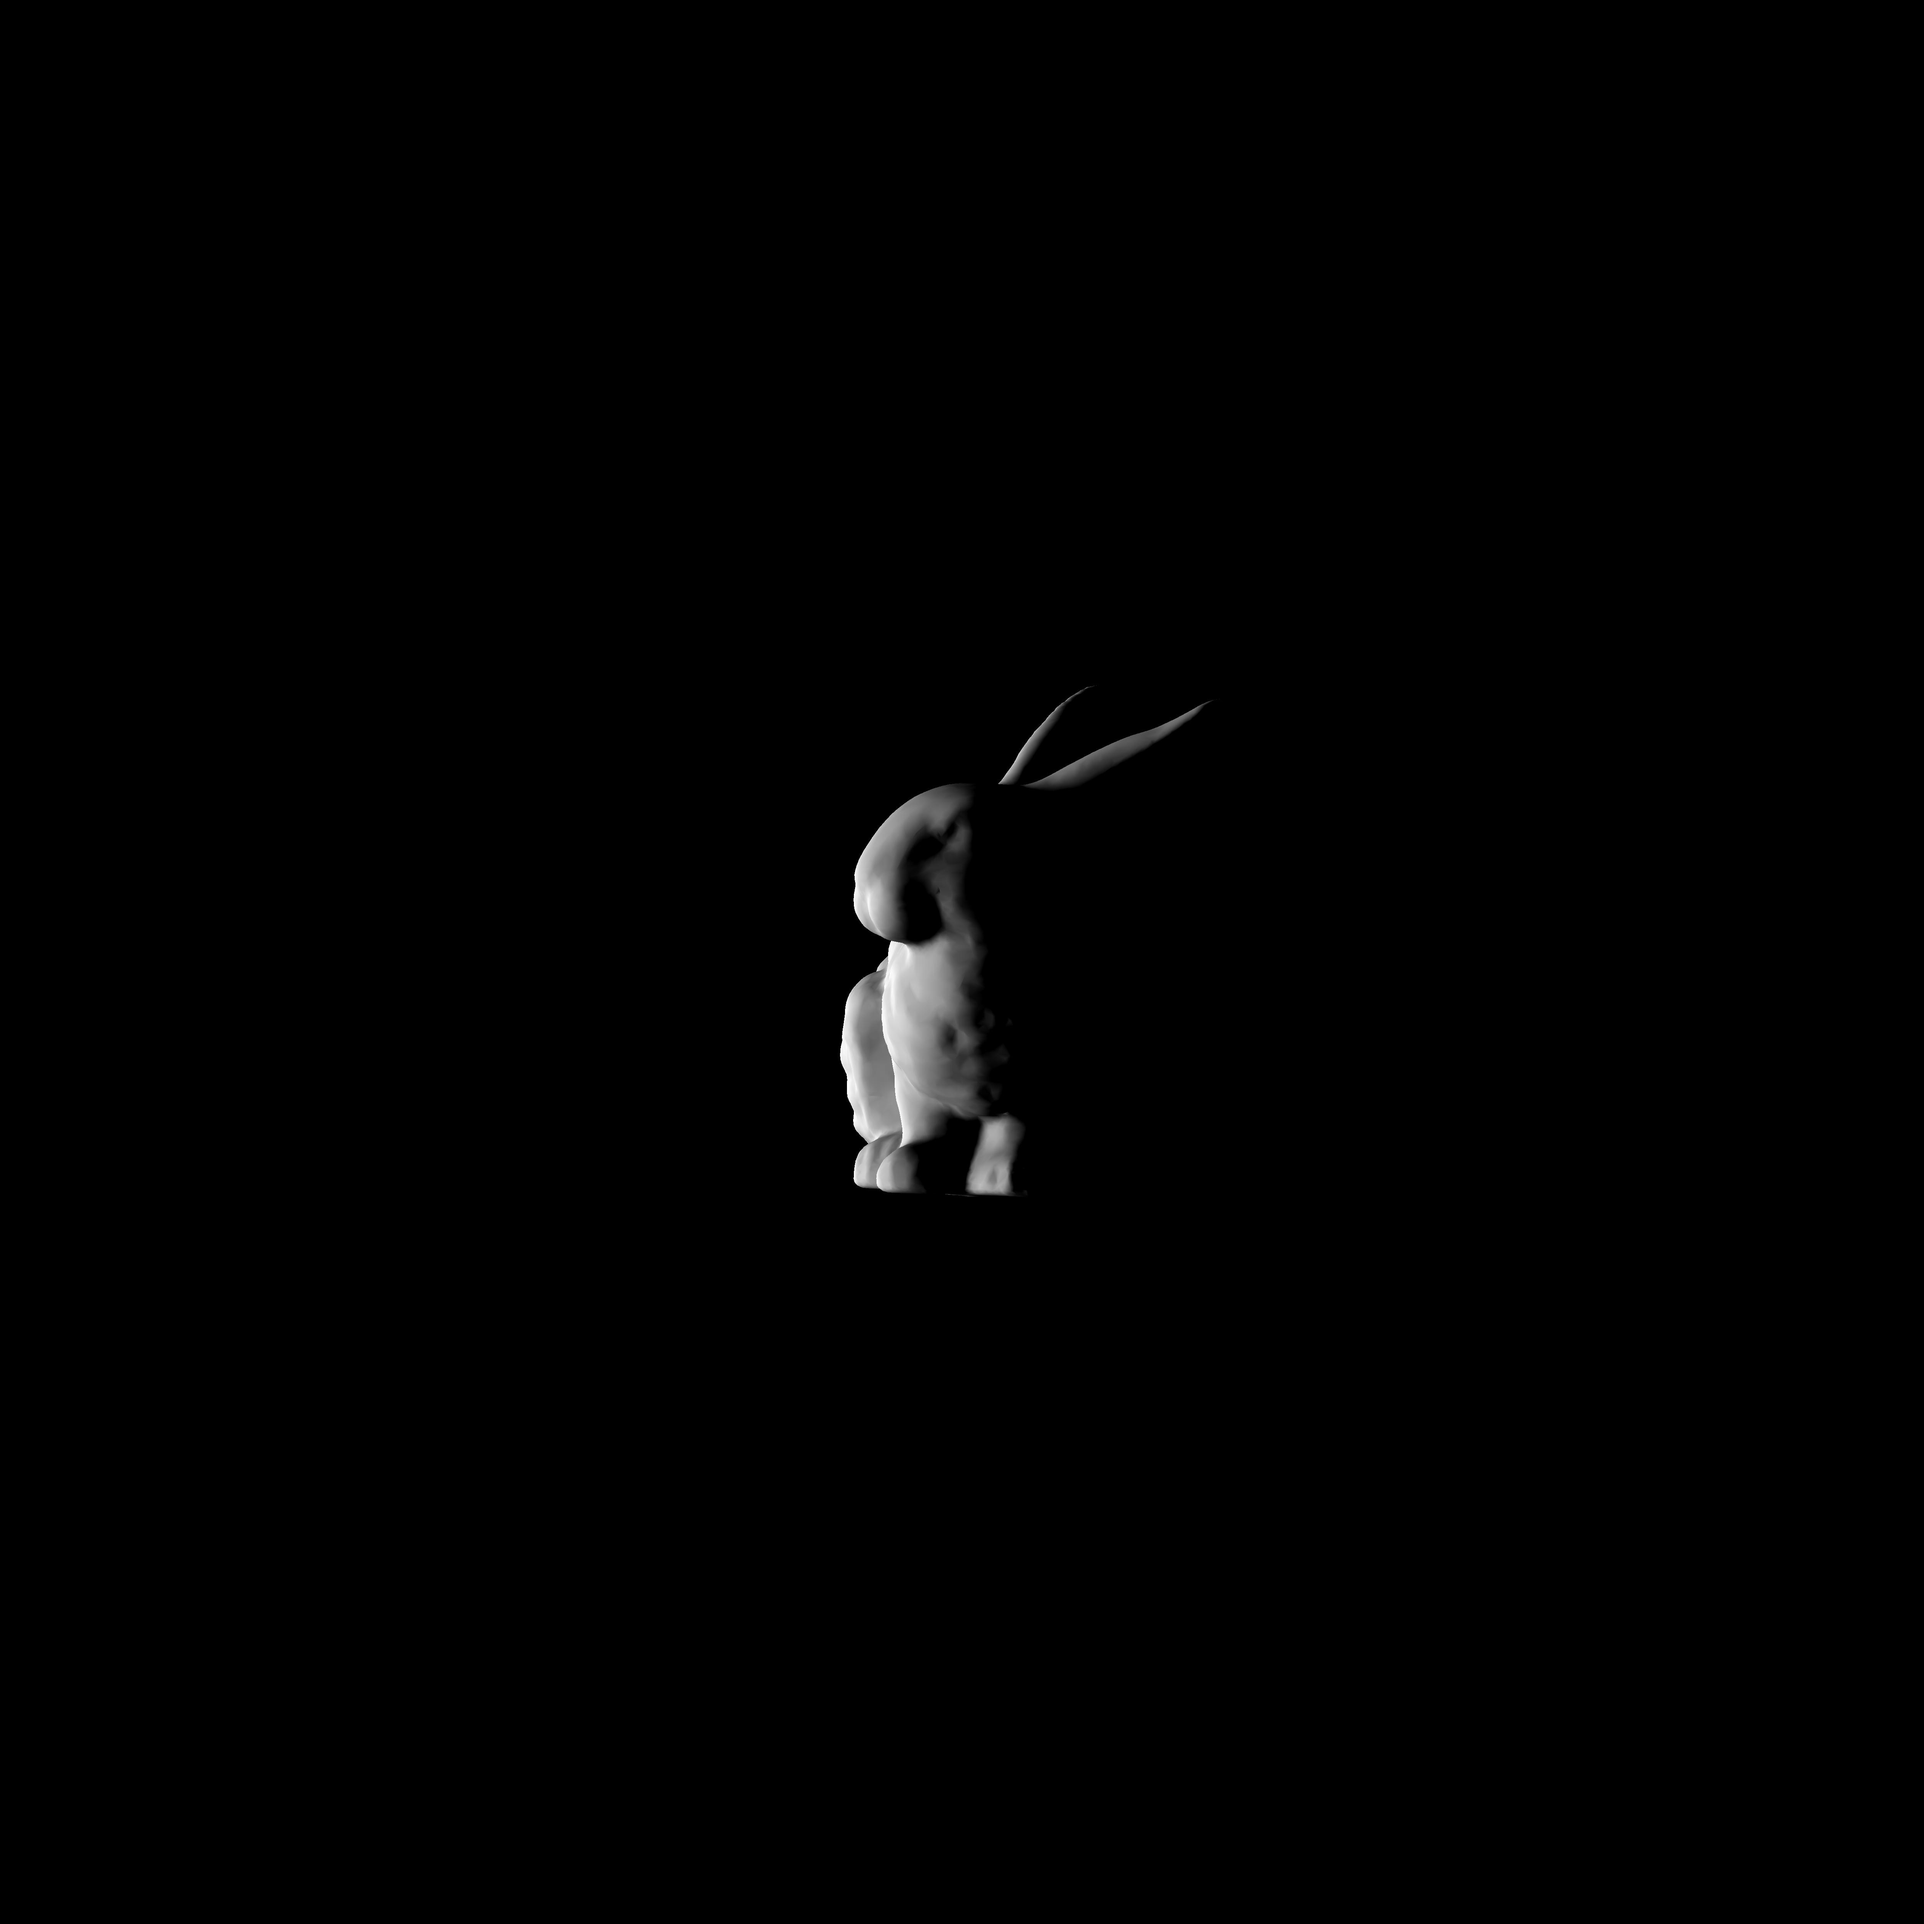
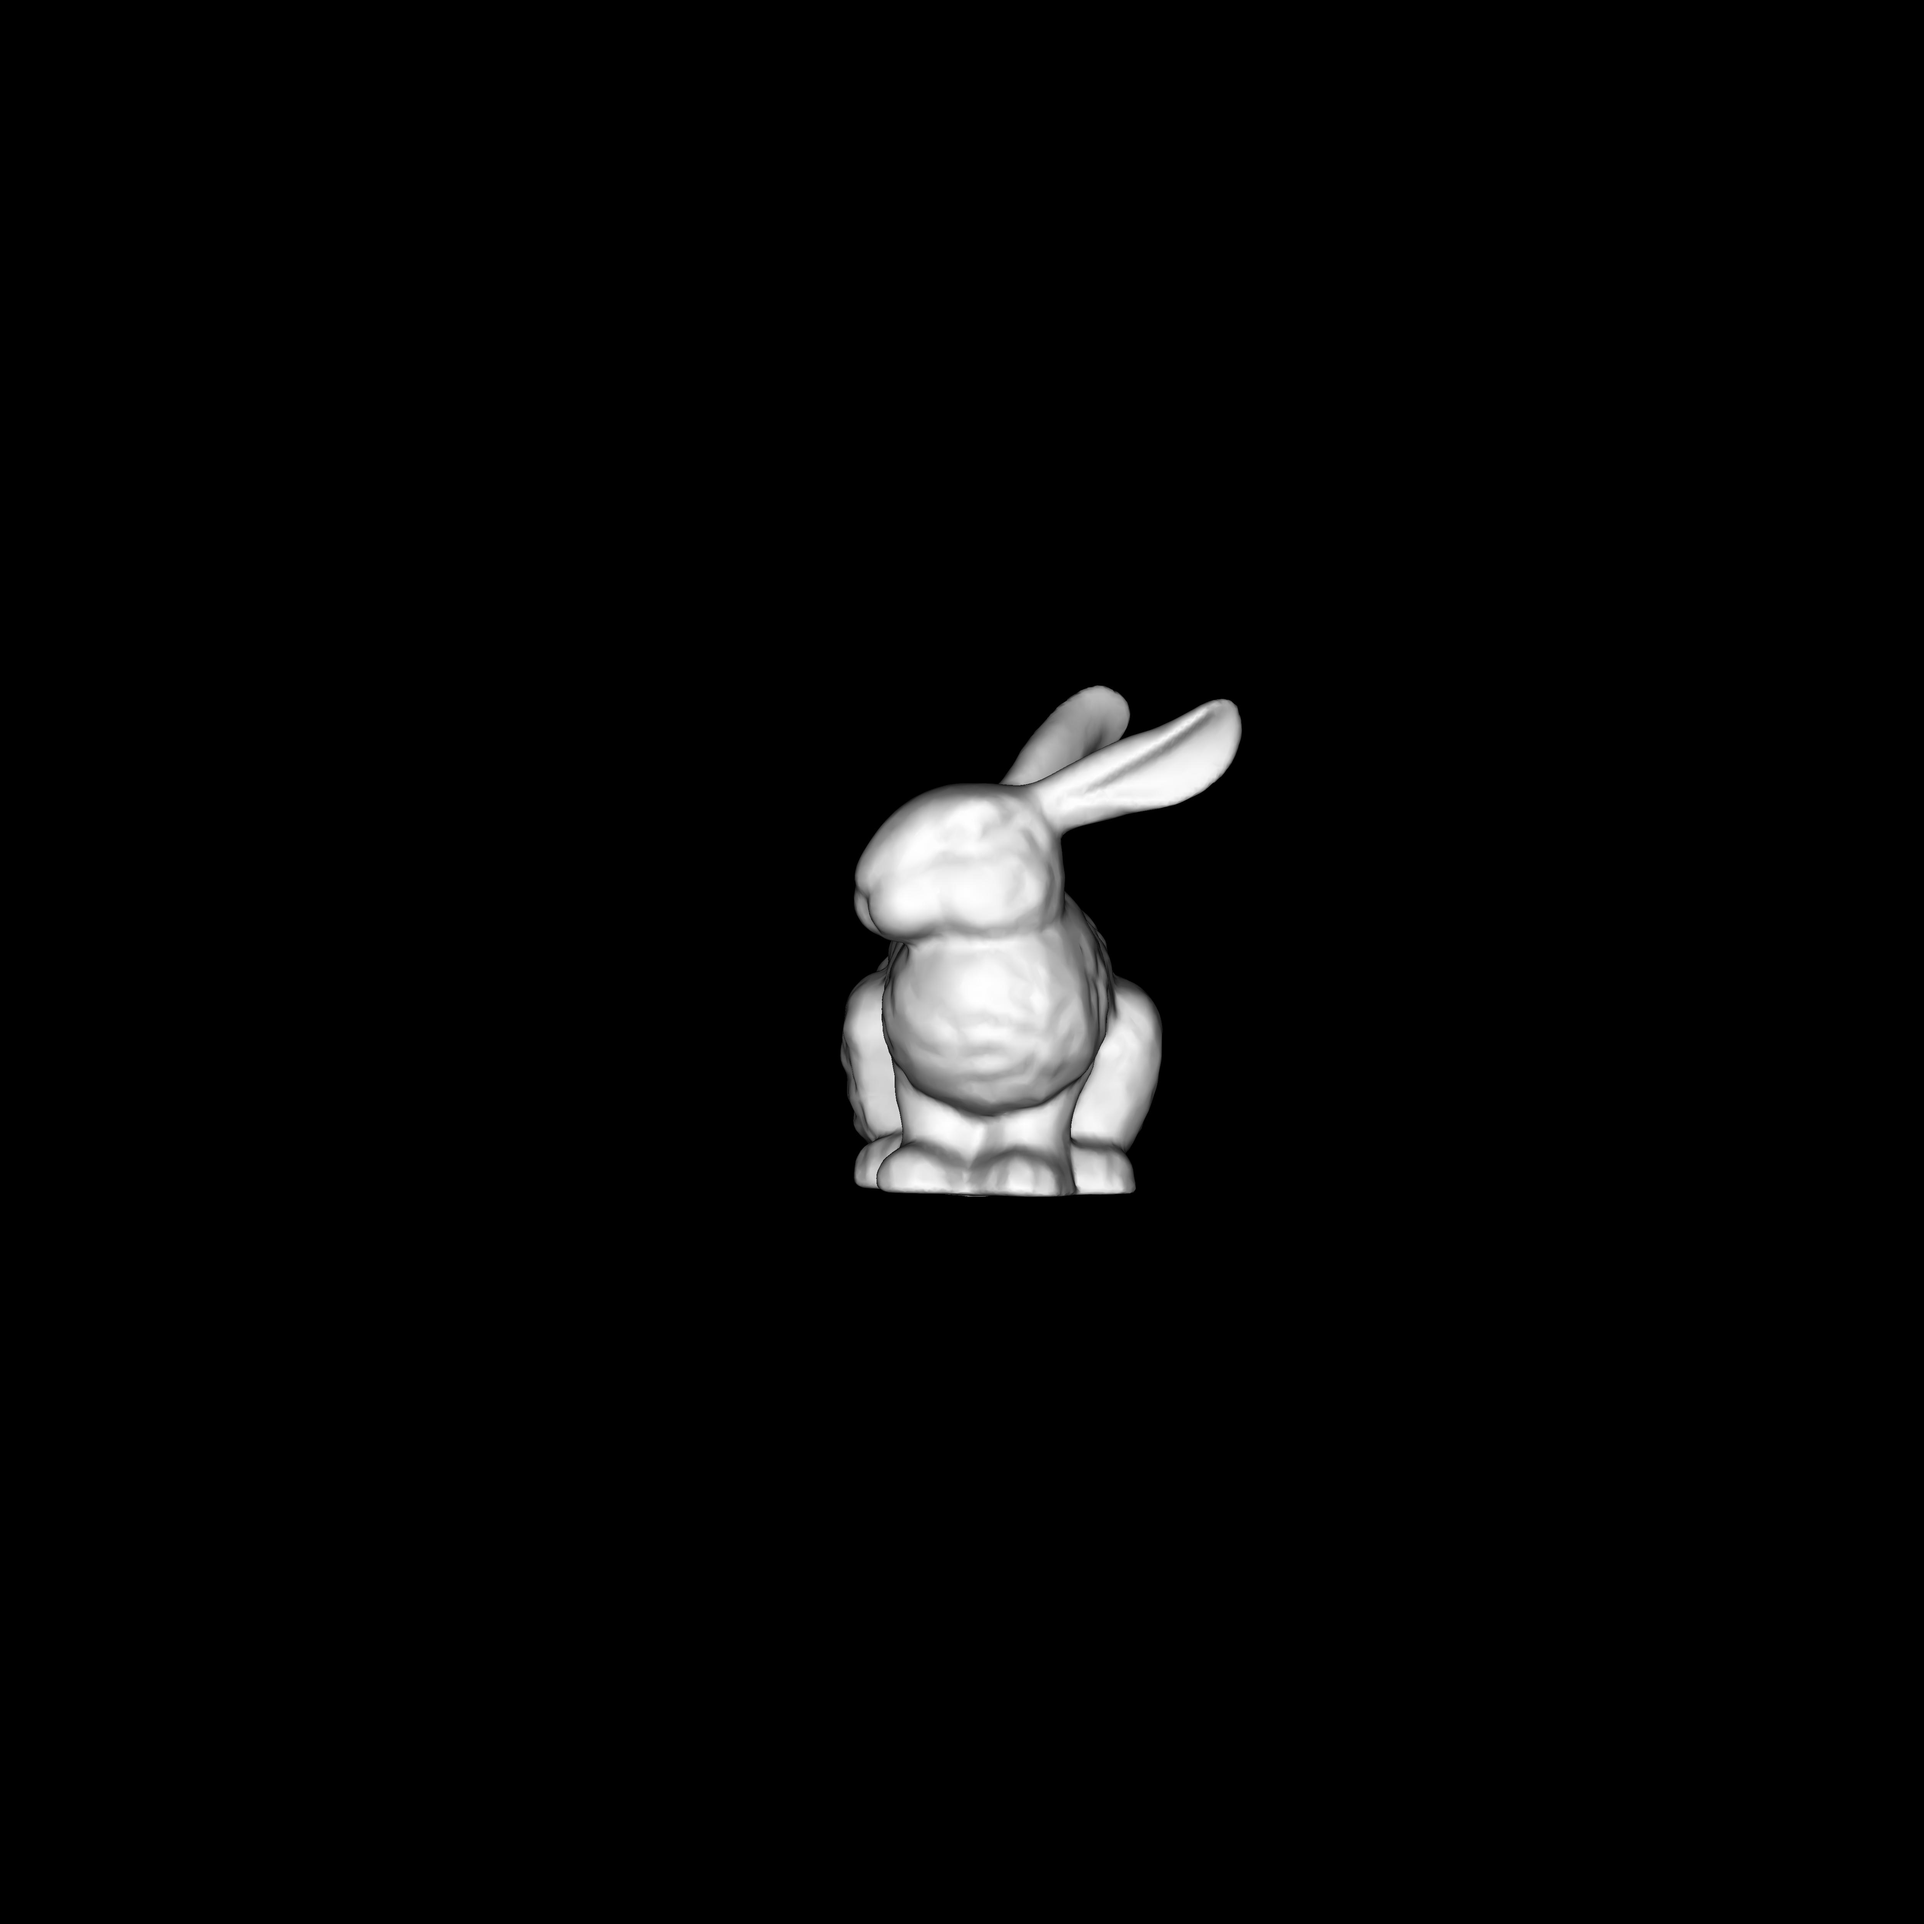
Initial commit

Changed region(s): [[0.4368, 0.3432, 0.6552, 0.624]]

diff --git a/tasks12-18.py b/tasks12-18.py
@@ -29,6 +29,7 @@ def draw_triangles(x0, y0, z0, x1, y1, z1, x2, y2, z2, image, size, z_buf, norms
     if (ymin < 0):
         ymin = 0
     l = [0, 0, 1]
+    print(norms)
     l0 = np.dot(norms[0], l) / (LA.norm(norms[0]) * LA.norm(l))
     l1 = np.dot(norms[1], l) / (LA.norm(norms[1]) * LA.norm(l))
     l2 = np.dot(norms[2], l) / (LA.norm(norms[2]) * LA.norm(l))
@@ -63,6 +64,13 @@ def draw_polygons(image):
             triangle.append((x, y, z))
             triangle_proj.append((coord[0], coord[1], 1.0))
         norms = (parser.norm_list[indexes[0]-1],parser.norm_list[indexes[1]-1],parser.norm_list[indexes[2]-1])
+        norm1, norm2, norm3 = turn_norms(parser.norm_list[indexes[0] - 1][0], parser.norm_list[indexes[0] - 1][1],
+                                         parser.norm_list[indexes[0] - 1][2])
+        norm4, norm5, norm6 = turn_norms(parser.norm_list[indexes[1] - 1][0], parser.norm_list[indexes[1] - 1][1],
+                                         parser.norm_list[indexes[1] - 1][2])
+        norm7, norm8, norm9 = turn_norms(parser.norm_list[indexes[2] - 1][0], parser.norm_list[indexes[2] - 1][1],
+                                         parser.norm_list[indexes[2] - 1][2])
+        norms = ((norm1, norm2, norm3), (norm4, norm5, norm6), (norm7, norm8, norm9))
         n = count_norm(triangle)
         cos = get_cos(n)
         if cos < 0:
@@ -98,6 +106,17 @@ def turn_coord(x, y, z):
     init_vec = np.array([[x], [y], [z]])
     alpha = 0
     beta = -1.57
+    gamma = 0
+    R_1 = np.array([[1, 0, 0], [0, np.cos(alpha), np.sin(alpha)], [0, -np.sin(alpha), np.cos(alpha)]])
+    R_2 = np.array([[np.cos(beta), 0, np.sin(beta)], [0, 1, 0], [-np.sin(beta), 0, np.cos(beta)]])
+    R_3 = np.array([[np.cos(gamma), np.sin(gamma), 0], [-np.sin(gamma), np.cos(gamma), 0], [0, 0, 1]])
+    final_vec = ((R_1.dot(R_2)).dot(R_3)).dot(init_vec)
+    return final_vec[0][0], final_vec[1][0], final_vec[2][0]
+
+def turn_norms(x, y, z):
+    init_vec = np.array([[x], [y], [z]])
+    alpha = 0
+    beta = 1.57
     gamma = 0
     R_1 = np.array([[1, 0, 0], [0, np.cos(alpha), np.sin(alpha)], [0, -np.sin(alpha), np.cos(alpha)]])
     R_2 = np.array([[np.cos(beta), 0, np.sin(beta)], [0, 1, 0], [-np.sin(beta), 0, np.cos(beta)]])

diff --git a/tasks8-11.py b/tasks8-11.py
@@ -49,3 +49,4 @@ draw_polygons(image)
 
 
 
+
